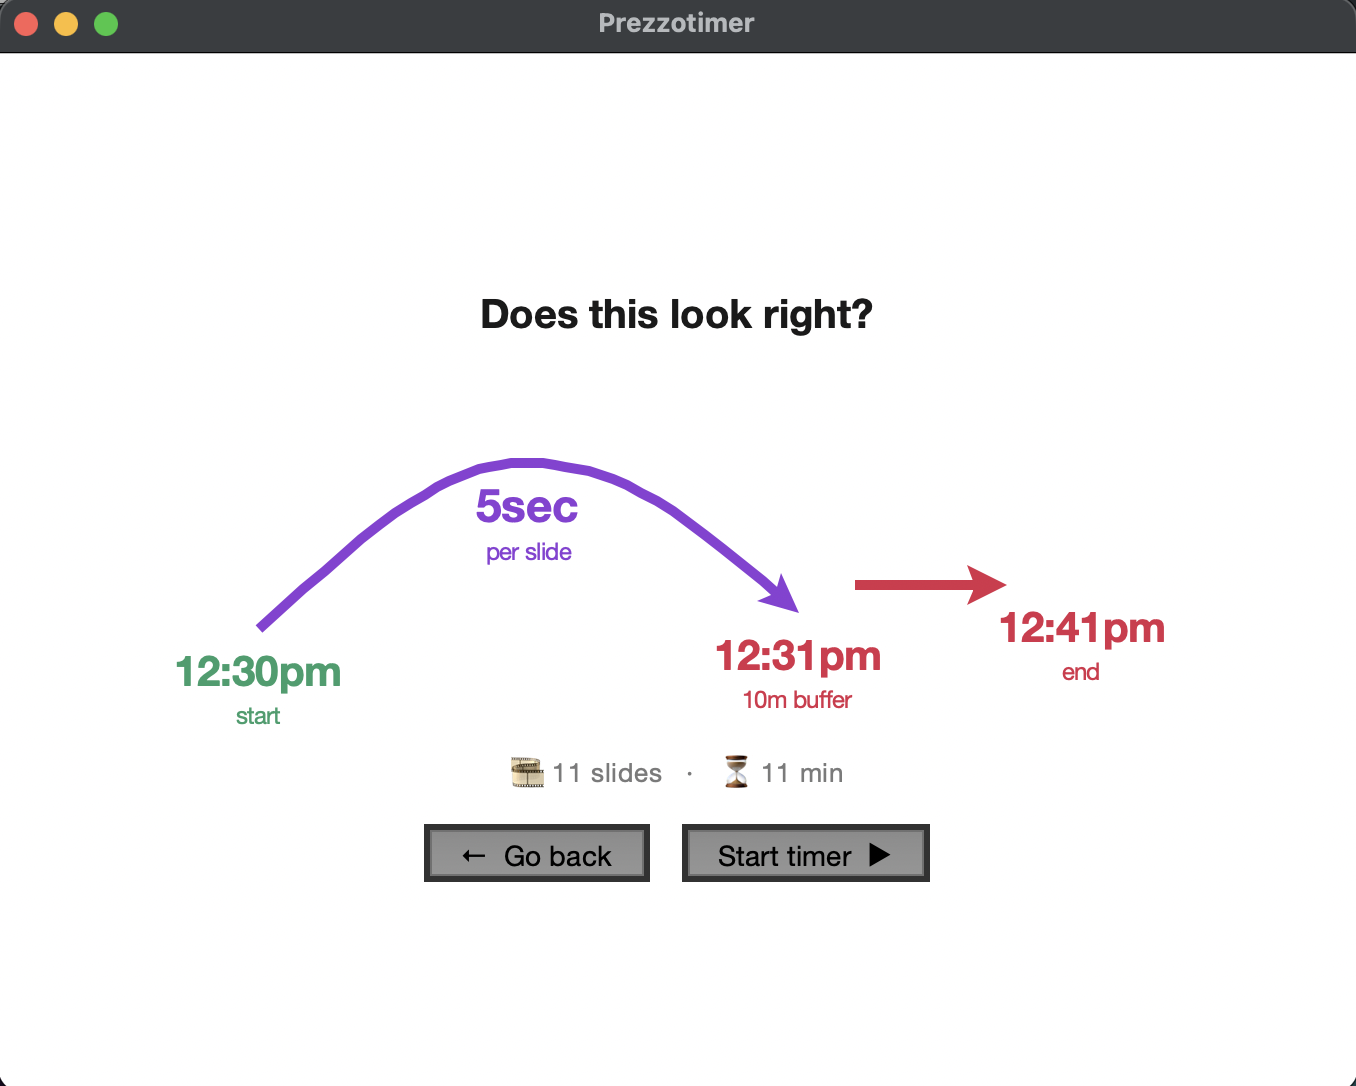
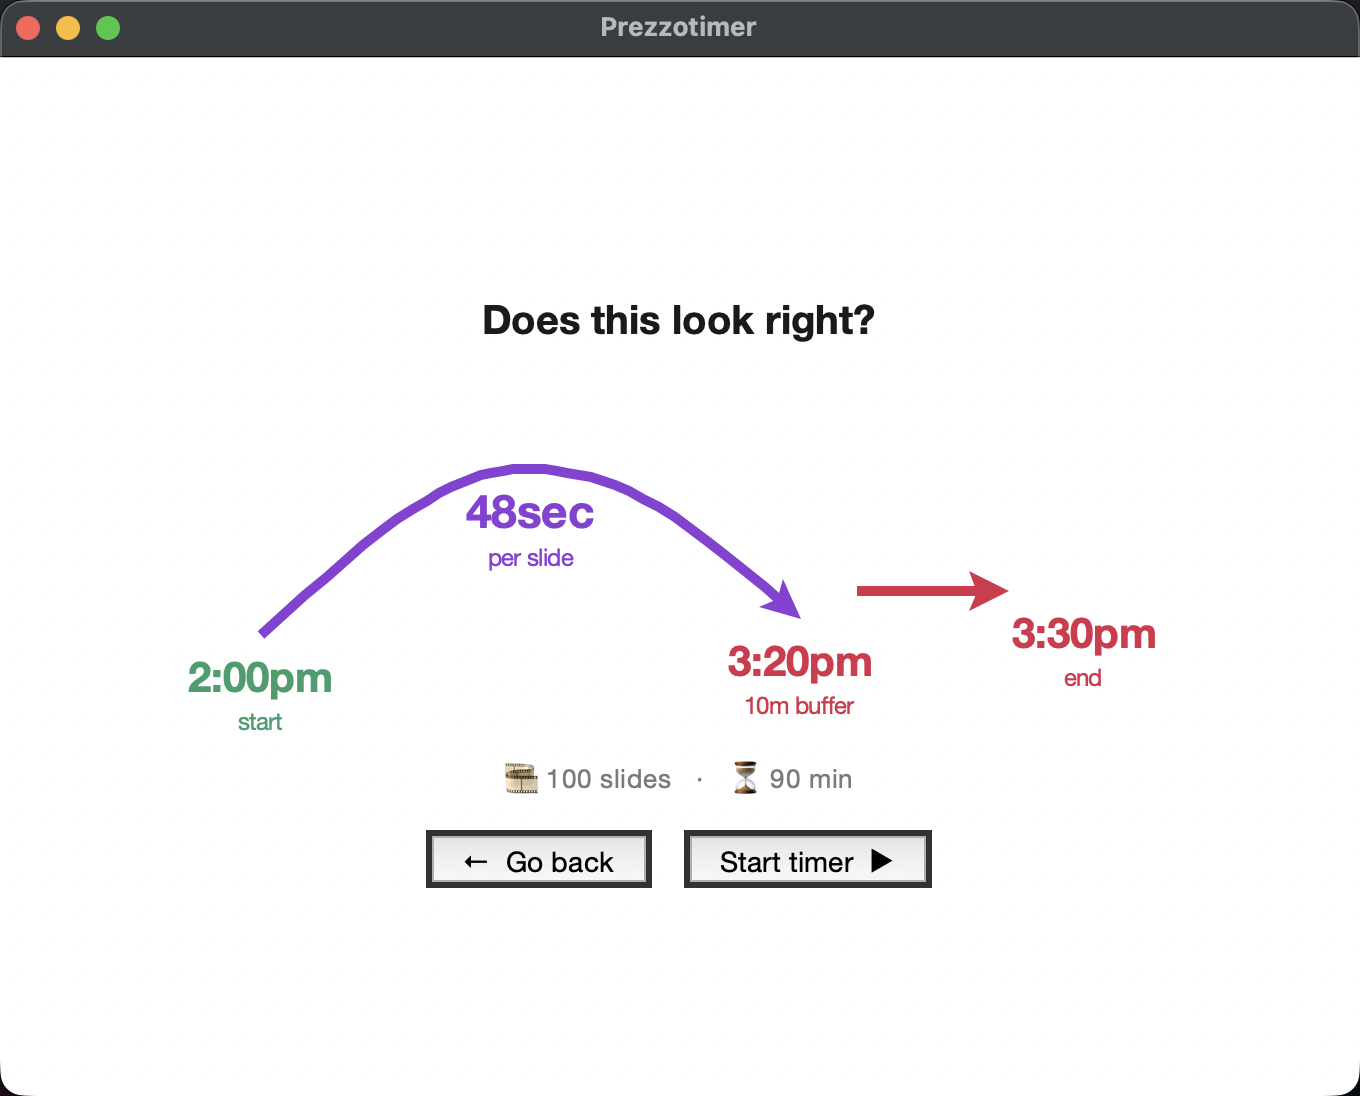
combine the three screens into one comic strip image
Three stacked screenshots ate too much vertical space in the README. One wide
strip shows the same flow -- set it up, check it, present -- in a fraction of
the height, and reads left to right.

diff --git a/README.md b/README.md
@@ -2,7 +2,7 @@
 
 Shows the slide number you *should* be on, so a big deck doesn't run overtime.
 
-<img src="images/1_setup.png" width="420" alt="Setup screen"> <img src="images/2_confirmation.png" width="420" alt="Confirmation screen"> <img src="images/3_timer.png" width="420" alt="Timer screen">
+![Set it up, check it, present](images/strip.png)
 
 ## Run it
 
@@ -25,18 +25,14 @@ Homebrew Python may need `brew install python-tk` first.
 | 🕰 Start time | `2:30pm`, `1430`, `14:00` and `2.30` all work |
 | 🪗 Buffer | minutes held back at the end for Q&A |
 
-Duration includes the buffer — 80 minutes with a 10 minute buffer paces the deck across 70 and ends at 80.
+Duration includes both time presenting plus the buffer. So an 80-minute duration with a 10-minute buffer paces the speaker to present for 70 minutes.
 
-Next screen draws it as a timeline. **Check the seconds per slide.** Duration and slides are both just numbers, so swapping them looks fine in the fields, but 24 sec/slide and 2 min/slide don't.
+For my presentations I use two monitors. Here's my implementation:
 
-Then the timer: one big number, the slide you should be on right now. **Start now** skips the countdown without moving your finish time.
+<img src="Mac-External-Displays-Arrangment.jpg" width="420" alt="Two monitors set to screen extension, not mirroring">
 
 ## My problem
 
 I believe in [one-idea-per-slide](https://www.youtube.com/shorts/qKDvUO-hK5s). I run a [workshop](https://lu.ma/nascent) where I present ~250 slides over 2 hours with lots of audience participation, so it's easy to run long — and I want to respect my audience's time. I used to keep time by [hand-writing a table](IMG_0532.jpeg) of clock time vs. target slide. Tedious, and it distracts from the preso.
 
-I wanna build "an app for that".
 
-## Future
-
-Link to Google Slides so it knows which slide I'm actually on. Full screen for in-person workshops, Menu Bar for webinars. Assumes [screen extension, not mirroring](Mac-External-Displays-Arrangment.jpg).
